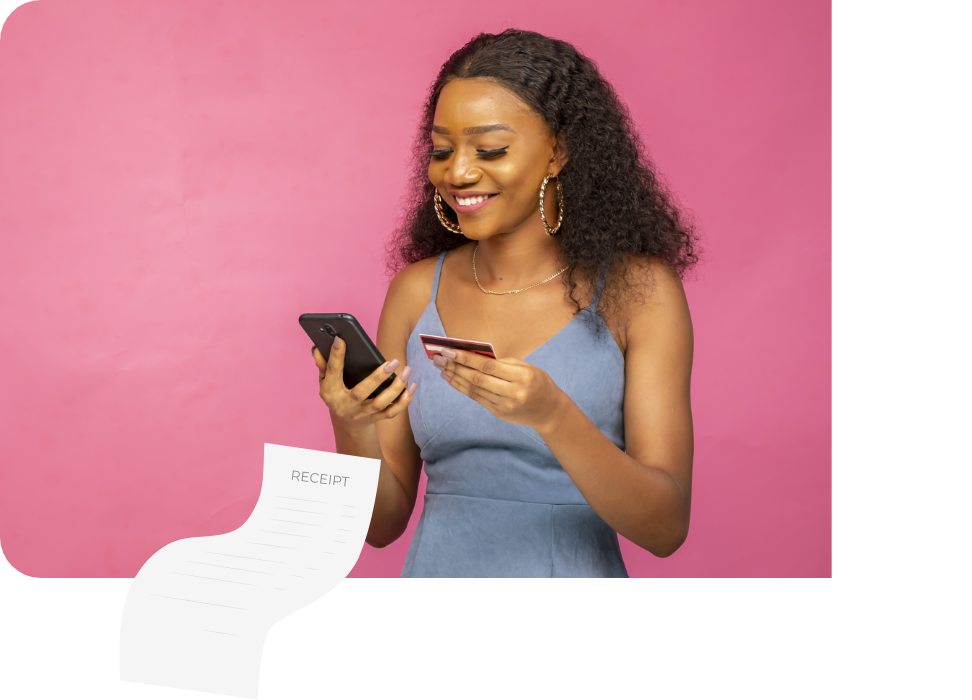
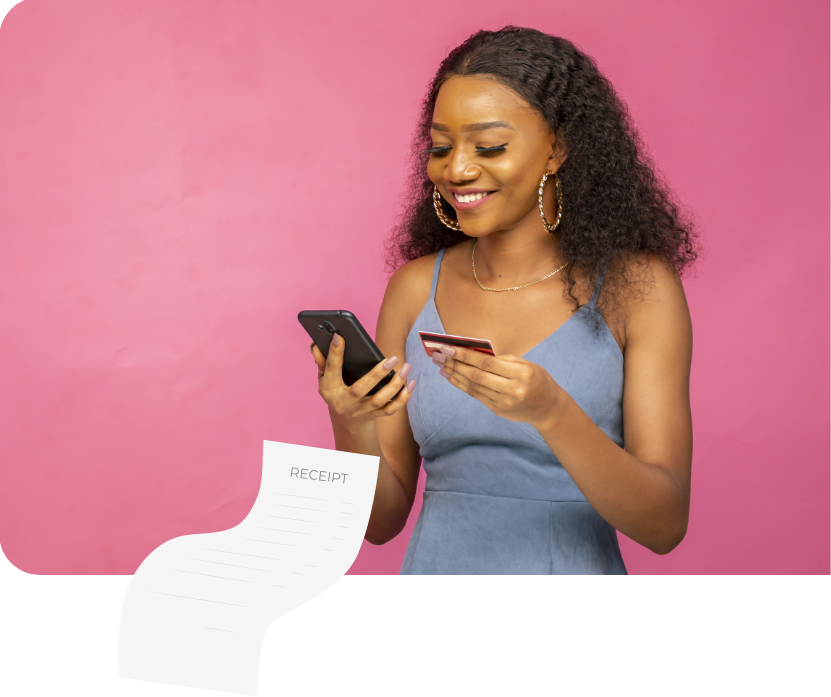
commit

diff --git a/src/components/Bills.js b/src/components/Bills.js
@@ -6,7 +6,7 @@ import image from '../images/payment1.png'
 const Container = styled.section`
     display: grid;
     grid-template-columns: .40fr .60fr;
-    grid-template-rows: 600px;
+    grid-template-rows: 700px;
     grid-gap: 50px;
     margin-top: 75px;
     padding: 4rem 0 2rem 6rem;
@@ -14,7 +14,7 @@ const Container = styled.section`
     @media screen and (max-width: 1580px) {
         grid-gap: 20px;
     }
-    @media screen and (max-width: 1300px) {
+    @media screen and (max-width: 1400px) {
         grid-template-rows: 600px;
     }
     @media screen and (max-width: 1105px) {
@@ -37,34 +37,16 @@ const Container = styled.section`
     }
 
     @media screen and (max-width: 768px) {
-        padding: 4rem 3rem;
+        padding: 4rem 3rem 0rem 3rem;
         grid-template-columns: 1fr;
-        grid-template-rows: 150px 400px;
-    }
-    @media screen and (max-width: 660px) {
-        grid-template-rows: 180px 400px;
-    }
-    @media screen and (max-width: 580px) {
-        grid-template-rows: 150px 400px;
-    }
-    @media screen and (max-width: 550px) {
-        grid-template-rows: 170px 400px;
-    }
-    @media screen and (max-width: 540px) {
-        grid-template-rows: 190px 400px;
-    }
-    @media screen and (max-width: 455px) {
-        grid-template-rows: 220px 400px;
+        grid-template-rows: auto 400px;
     }
     @media screen and (max-width: 450px) {
-        padding: 4rem 1.5rem;
+        padding: 4rem 1.5rem 0rem 1.5rem;
+        grid-template-rows: auto 350px;
     }
-    
-    @media screen and (max-width: 440px) {
-        grid-template-rows: 220px 400px;
-    }
-    @media screen and (max-width: 380px) {
-        grid-template-rows: 220px 300px;
+    @media screen and (max-width: 370px) {
+        grid-template-rows: auto 300px;
     }
 `
 
@@ -77,14 +59,14 @@ const Info = styled.div`
             padding: 11rem 0;
         }
         
-        @media screen and (max-width: 1150px) {
+        @media screen and (max-width: 1170px) {
             padding: 9rem 0;
         }
 
         @media screen and (max-width: 1105px) {
             padding: 4rem 0;
         }
-        @media screen and (max-width: 930px) {
+        @media screen and (max-width: 960px) {
             padding: 2rem 0;
         }
         @media screen and (max-width: 768px) {
@@ -129,36 +111,15 @@ const Image = styled.div`
         height: 100%;
         object-fit: cover:
         border-radius:  40px;
-
-        @media screen and (max-width: 1155px) {
-            width: 130%;
-        }
+        
         @media screen and (max-width: 1107px) {
-            width: 130%;
+            width: 170%;
         }
-        @media screen and (max-width: 1104px) {
-            width: 190%;
-        }
-        @media screen and (max-width: 1040px) {
-            width: 210%;
-        }
-        @media screen and (max-width: 970px) {
-            width: 220%;
-        }
-        @media screen and (max-width: 930px) {
-            width: 190%;
+        @media screen and (max-width: 925px) {
+            width: 160%;
         }
         @media screen and (max-width: 768px) {
-            width: 120%;
-        }
-        @media screen and (max-width: 450px) {
-            width: 130%;
-        }
-        @media screen and (max-width: 430px) {
-            width: 140%;
-        }
-        @media screen and (max-width: 400px) {
-            width: 130%;
+            width: 100%;
         }
     }
 `

diff --git a/src/components/Topup.js b/src/components/Topup.js
@@ -12,12 +12,15 @@ const Container = styled.section`
     @media screen and (max-width: 1500px) {
         grid-template-rows: 500px;
     }
-    @media screen and (max-width: 1200px) {
-        grid-template-rows: 400px;
+    @media screen and (max-width: 1300px) {
+        grid-template-rows: 450px;
     }
-    @media screen and (max-width: 1000px) {
+    @media screen and (max-width: 1100px) {
         grid-template-rows: 400px;
         padding: 4rem 5rem;
+    }
+    @media screen and (max-width: 1000px) {
+        grid-template-columns: .60fr .40fr;
     }
 
     @media screen and (max-width: 920px) {
@@ -28,34 +31,35 @@ const Container = styled.section`
         padding: 4rem 4rem;
     }
 
+    @media screen and (max-width: 830px) {
+        grid-template-columns: .50fr .50fr;
+        grid-template-rows: 350px;
+    }
+
     @media screen and (max-width: 768px) {
         padding: 2rem 3rem;
         grid-template-columns: 1fr;
-        grid-template-rows: 150px 500px;
+        grid-template-rows: auto 400px;
         grid-gap: 20px;
     }
-
-    @media screen and (max-width: 600px) {
-        grid-template-rows: 150px 400px;
+    @media screen and (max-width: 500px) {
+        grid-template-rows: auto 350px;
     }
     @media screen and (max-width: 450px) {
         padding: 2rem 1.5rem;
     }
+
     @media screen and (max-width: 390px) {
-        grid-template-rows: 170px 300px;
+        grid-template-rows: auto 300px;
     }
-    @media screen and (max-width: 365px) {
-        grid-template-rows: 190px 300px;
-    }
-    @media screen and (max-width: 350px) {
-        grid-template-rows: 220px 300px;
+    @media screen and (max-width: 340px) {
+        grid-template-rows: auto 250px;
     }
 `
 
 const Info = styled.div`
         display: flex;
         flex-direction: column;
-        justify-content: space-between;
         padding: 14rem 0 14rem 8rem;
 
         @media screen and (max-width: 1500px) {
@@ -70,7 +74,7 @@ const Info = styled.div`
         @media screen and (max-width: 1175px) {
             padding: 5rem 0 5rem 1rem;
         }
-        @media screen and (max-width: 1140px) {
+        @media screen and (max-width: 840px) {
             padding: 2rem 0 2rem 1rem;
         }
         @media screen and (max-width: 768px) {
@@ -80,12 +84,16 @@ const Info = styled.div`
         h2 {
             font-size: 70px;
             color: #0847A8;
+            margin-bottom: 15px;
             
             @media screen and (max-width: 1690px) {
                 font-size: 60px;
             }
+            @media screen and (max-width: 1000px) {
+                font-size: 55px;
+            }
 
-            @media screen and (max-width: 790px) {
+            @media screen and (max-width: 910px) {
                 font-size: 50px;
             }
             
